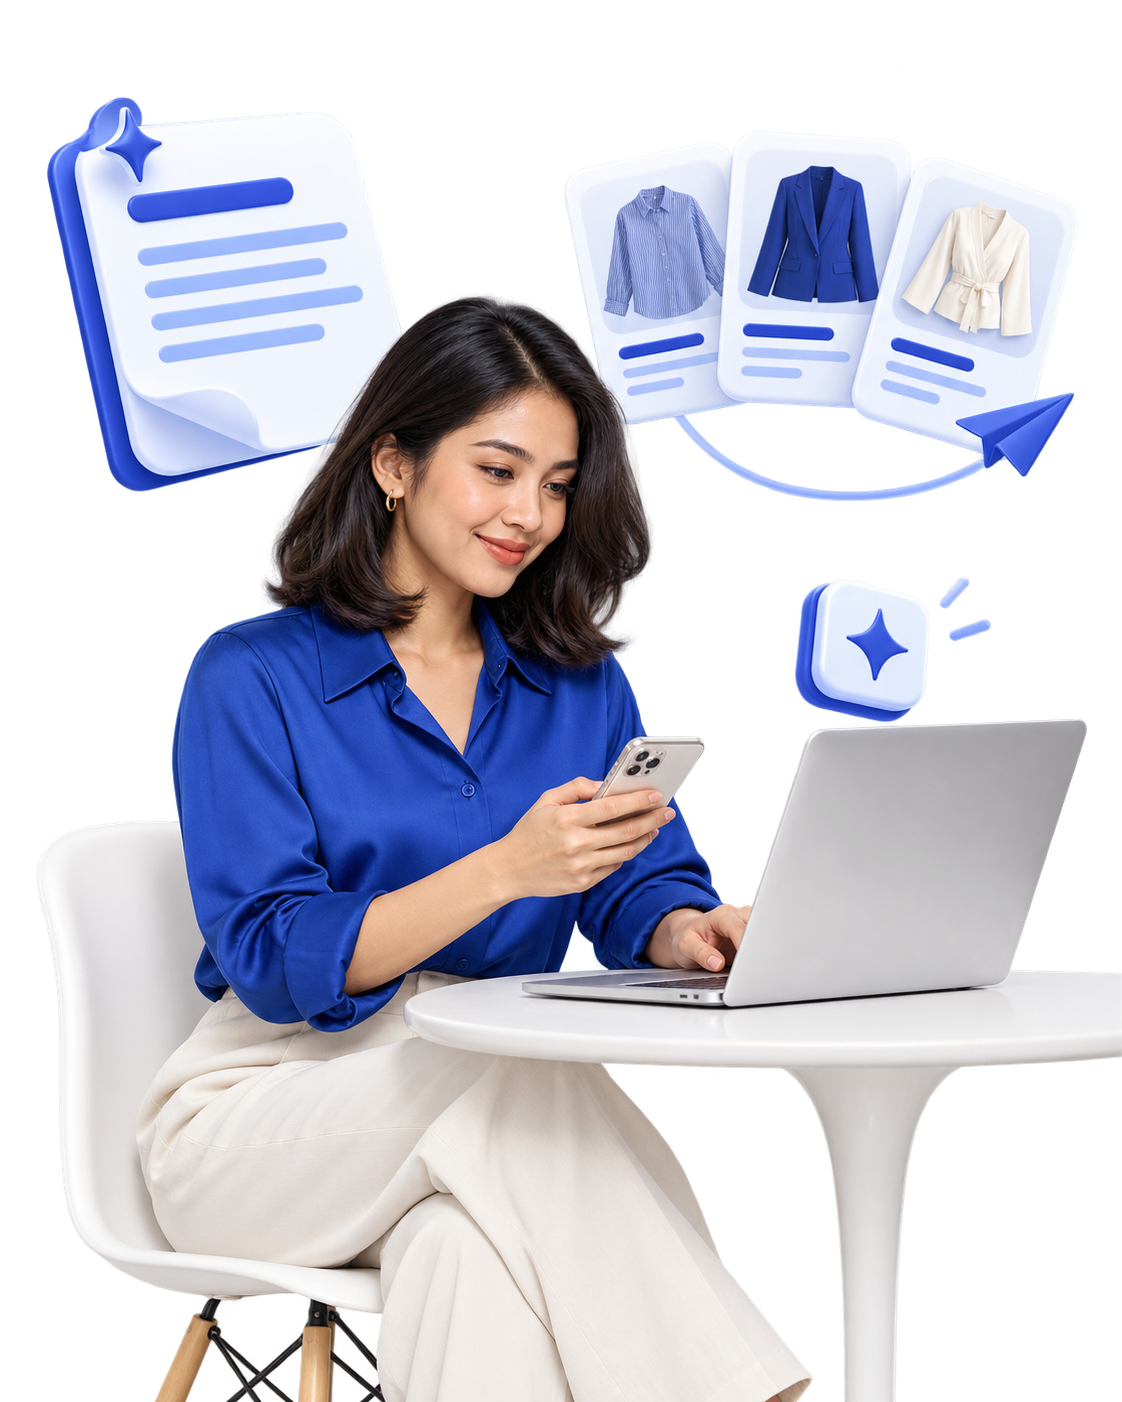
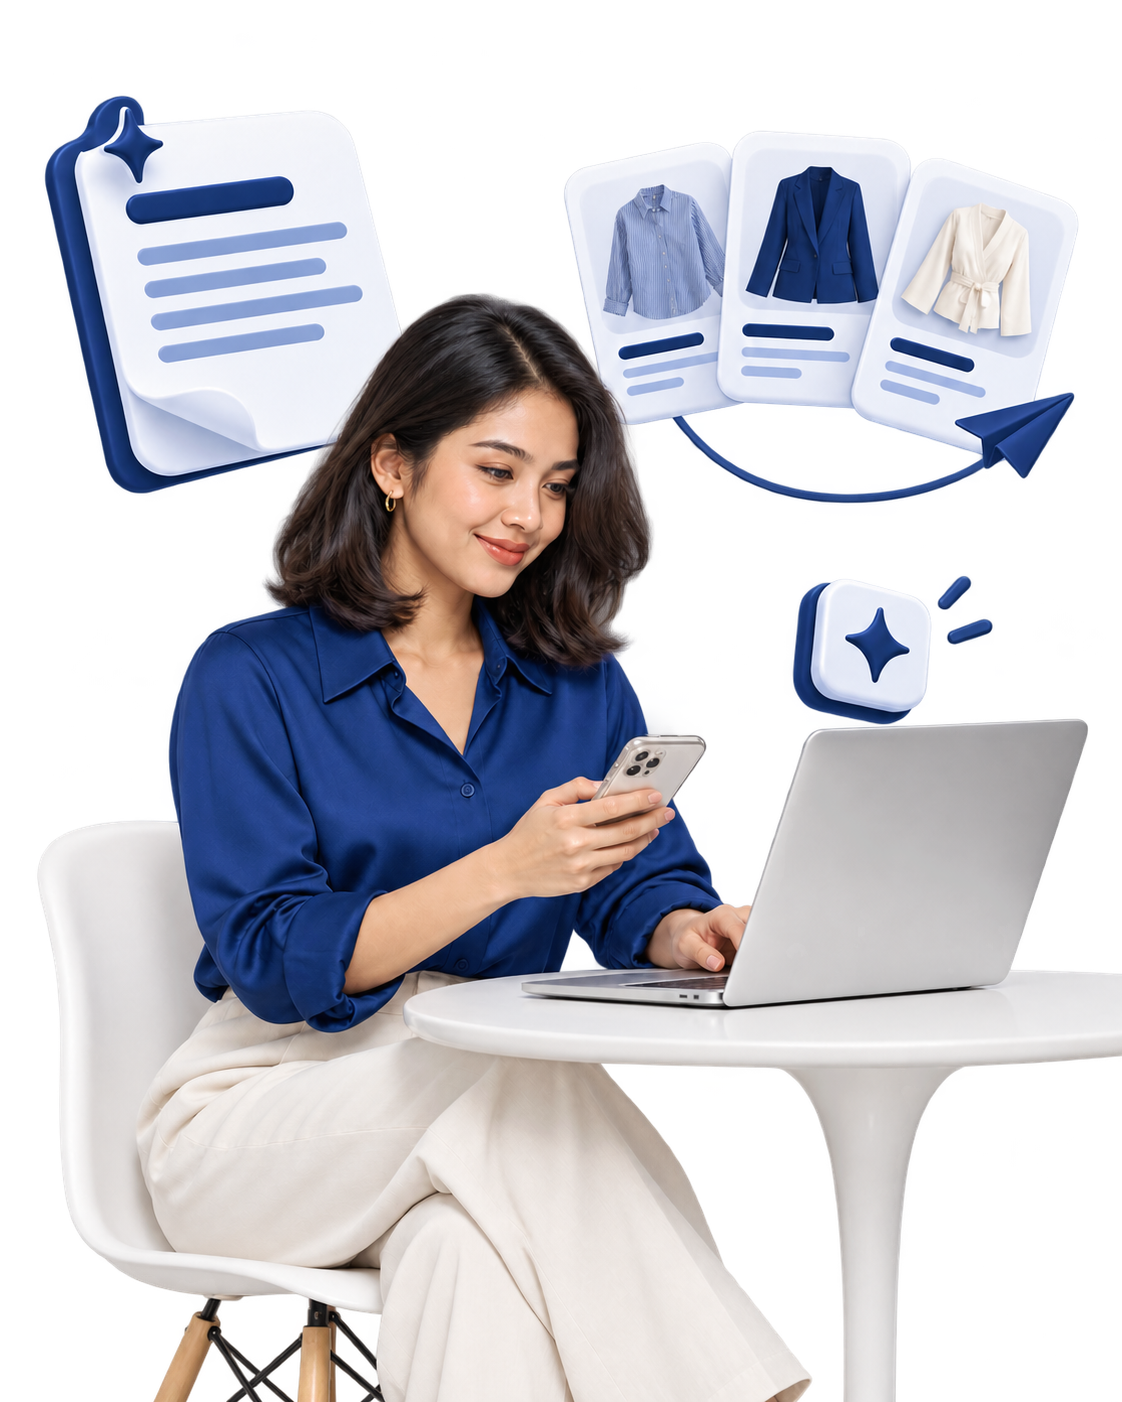
Update homepage backgrounds and Results images

diff --git a/components/sections/CaseStudies.tsx b/components/sections/CaseStudies.tsx
@@ -1,5 +1,9 @@
-import Image from "next/image";
+import Image, { type StaticImageData } from "next/image";
 import Link from "next/link";
+import afiAssistImage from "@/public/images/results/afiassist.png";
+import afiCreatorImage from "@/public/images/results/aficreator.png";
+import afiFlowImage from "@/public/images/results/afiflow.png";
+import afiInsightImage from "@/public/images/results/afiinsight.png";
 import { StackScroll } from "./StackScroll";
 import styles from "./CaseStudies.module.css";
 
@@ -9,7 +13,7 @@ type Case = {
   category: string;
   title: string;
   body: string;
-  image: string;
+  image: StaticImageData;
   mirrored?: boolean;
   metric: "growth" | "response" | "content" | "workflow";
   /**
@@ -27,7 +31,7 @@ const CASES: Case[] = [
     category: "AfiInsight",
     title: "Dari spreadsheet ke sistem afiliasi otomatis",
     body: "Program afiliasi yang dikelola manual digantikan sistem otomatis. 200+ afiliator ter-manage, GMV afiliasi naik 34% dalam 60 hari.",
-    image: "/images/results/afiinsight.png",
+    image: afiInsightImage,
     metric: "growth",
   },
   {
@@ -36,7 +40,7 @@ const CASES: Case[] = [
     category: "AfiAssist",
     title: "Response time turun dari 4 jam ke 90 detik",
     body: "AfiAssist menangani 80% pertanyaan CS. Tim CS kini fokus ke masalah yang benar-benar butuh manusia.",
-    image: "/images/results/afiassist.png",
+    image: afiAssistImage,
     mirrored: true,
     metric: "response",
   },
@@ -46,7 +50,7 @@ const CASES: Case[] = [
     category: "AfiCreator",
     title: "Brief konten untuk ratusan afiliator sekaligus",
     body: "Hook dan caption digenerate otomatis dari USP tiap produk, lalu dikirim sebagai brief personal ke masing-masing afiliator.",
-    image: "/images/results/aficreator.png",
+    image: afiCreatorImage,
     mirrored: true,
     metric: "content",
     isDraft: true,
@@ -57,7 +61,7 @@ const CASES: Case[] = [
     category: "AfiFlow",
     title: "10 jam kerja manual per minggu berjalan sendiri",
     body: "Rekap order, follow-up payment, dan laporan mingguan dijadikan alur otomatis dengan titik persetujuan manusia.",
-    image: "/images/results/afiflow.png",
+    image: afiFlowImage,
     mirrored: true,
     metric: "workflow",
     isDraft: true,
@@ -74,8 +78,6 @@ function CaseVisual({ item }: { item: Case }) {
       <div className={styles.imageFrame}>
         <Image
           src={item.image}
-          width={1122}
-          height={1402}
           alt=""
           sizes="(max-width: 767px) 80vw, (max-width: 1099px) 36vw, 335px"
           className={`${styles.illustration}${item.mirrored ? ` ${styles.mirrored}` : ""}`}

diff --git a/components/sections/Problem.tsx b/components/sections/Problem.tsx
@@ -24,10 +24,10 @@ export function Problem() {
     <section
       id="problem"
       aria-labelledby="problem-title"
-      className="relative z-10 scroll-mt-24 bg-[var(--background)] py-16 md:py-24"
+      className="relative z-10 scroll-mt-24 bg-[var(--accent-soft)] py-16 md:py-24"
     >
       <div className="mx-auto w-full max-w-[72rem] px-6 md:px-10">
-        <p className="section-label">01 / The Problem</p>
+        <p className="section-label text-accent!">01 / The Problem</p>
 
         <h2
           id="problem-title"
@@ -36,7 +36,7 @@ export function Problem() {
         >
           Brand kamu sudah scale.
           <br />
-          <span className="text-[var(--muted)]">
+          <span className="text-[var(--accent)]">
             Tapi operasionalnya belum.
           </span>
         </h2>
@@ -53,7 +53,7 @@ export function Problem() {
               }
             >
               {/* Nomor bersifat dekoratif — urutan sudah tersampaikan lewat <ol> */}
-              <span className="section-label" aria-hidden="true">
+              <span className="section-label text-accent!" aria-hidden="true">
                 {String(i + 1).padStart(2, "0")}
               </span>
 
@@ -64,14 +64,14 @@ export function Problem() {
                 {p.title}
               </h3>
 
-              <p className="mt-3 max-w-[32rem] text-[0.9375rem] leading-[1.6] text-[var(--muted)]">
+              <p className="mt-3 max-w-[32rem] text-[0.9375rem] leading-[1.6]">
                 {p.body}
               </p>
             </li>
           ))}
         </ol>
 
-        <p className="reveal mt-12 max-w-[42rem] text-[var(--muted)]" style={{ fontSize: "var(--type-lead)", lineHeight: 1.5 }}>
+        <p className="reveal mt-12 max-w-[42rem]" style={{ fontSize: "var(--type-lead)", lineHeight: 1.5 }}>
           Afilabs solve ketiga masalah ini — dengan AI yang dibangun khusus
           untuk konteks bisnis D2C Indonesia.
         </p>

diff --git a/components/sections/Stats.tsx b/components/sections/Stats.tsx
@@ -22,7 +22,7 @@ export function Stats() {
     <section
       id="results"
       aria-labelledby="stats-title"
-      className="relative z-10 scroll-mt-24 bg-[#fafafa] py-16 md:py-20"
+      className="relative z-10 scroll-mt-24 bg-[var(--accent)] py-16 text-[var(--surface-strong)] md:py-20"
     >
       <div className="mx-auto w-full max-w-[72rem] px-6 md:px-10">
         {/* Section tanpa judul kasat mata tetap perlu nama untuk pembaca layar */}
@@ -30,20 +30,20 @@ export function Stats() {
           Hasil yang terukur
         </h2>
 
-        <ul className="grid border-t border-[var(--border)] md:grid-cols-3">
+        <ul className="grid border-t border-white/30 md:grid-cols-3">
           {STATS.map((stat, i) => (
             <li
               key={stat.value}
-              className="reveal border-b border-[var(--border)] pt-8 pb-9 md:border-b-0 md:pr-10 md:not-last:border-r md:not-last:border-[var(--border)] md:pl-10 md:first:pl-0"
+              className="reveal border-b border-white/30 pt-8 pb-9 md:border-b-0 md:pr-10 md:not-last:border-r md:pl-10 md:first:pl-0"
               style={{ ["--reveal-offset" as string]: `${i * 8}%` }}
             >
               <p
-                className="font-[family-name:var(--font-heading)] font-normal leading-[1] tracking-[-0.045em] text-[var(--accent)]"
+                className="font-[family-name:var(--font-heading)] font-normal leading-[1] tracking-[-0.045em]"
                 style={{ fontSize: "var(--type-display)" }}
               >
                 {stat.value}
               </p>
-              <p className="mt-4 max-w-[18rem] text-[0.9375rem] leading-[1.5] text-[var(--muted)]">
+              <p className="mt-4 max-w-[18rem] text-[0.9375rem] leading-[1.5]">
                 {stat.label}
               </p>
             </li>
